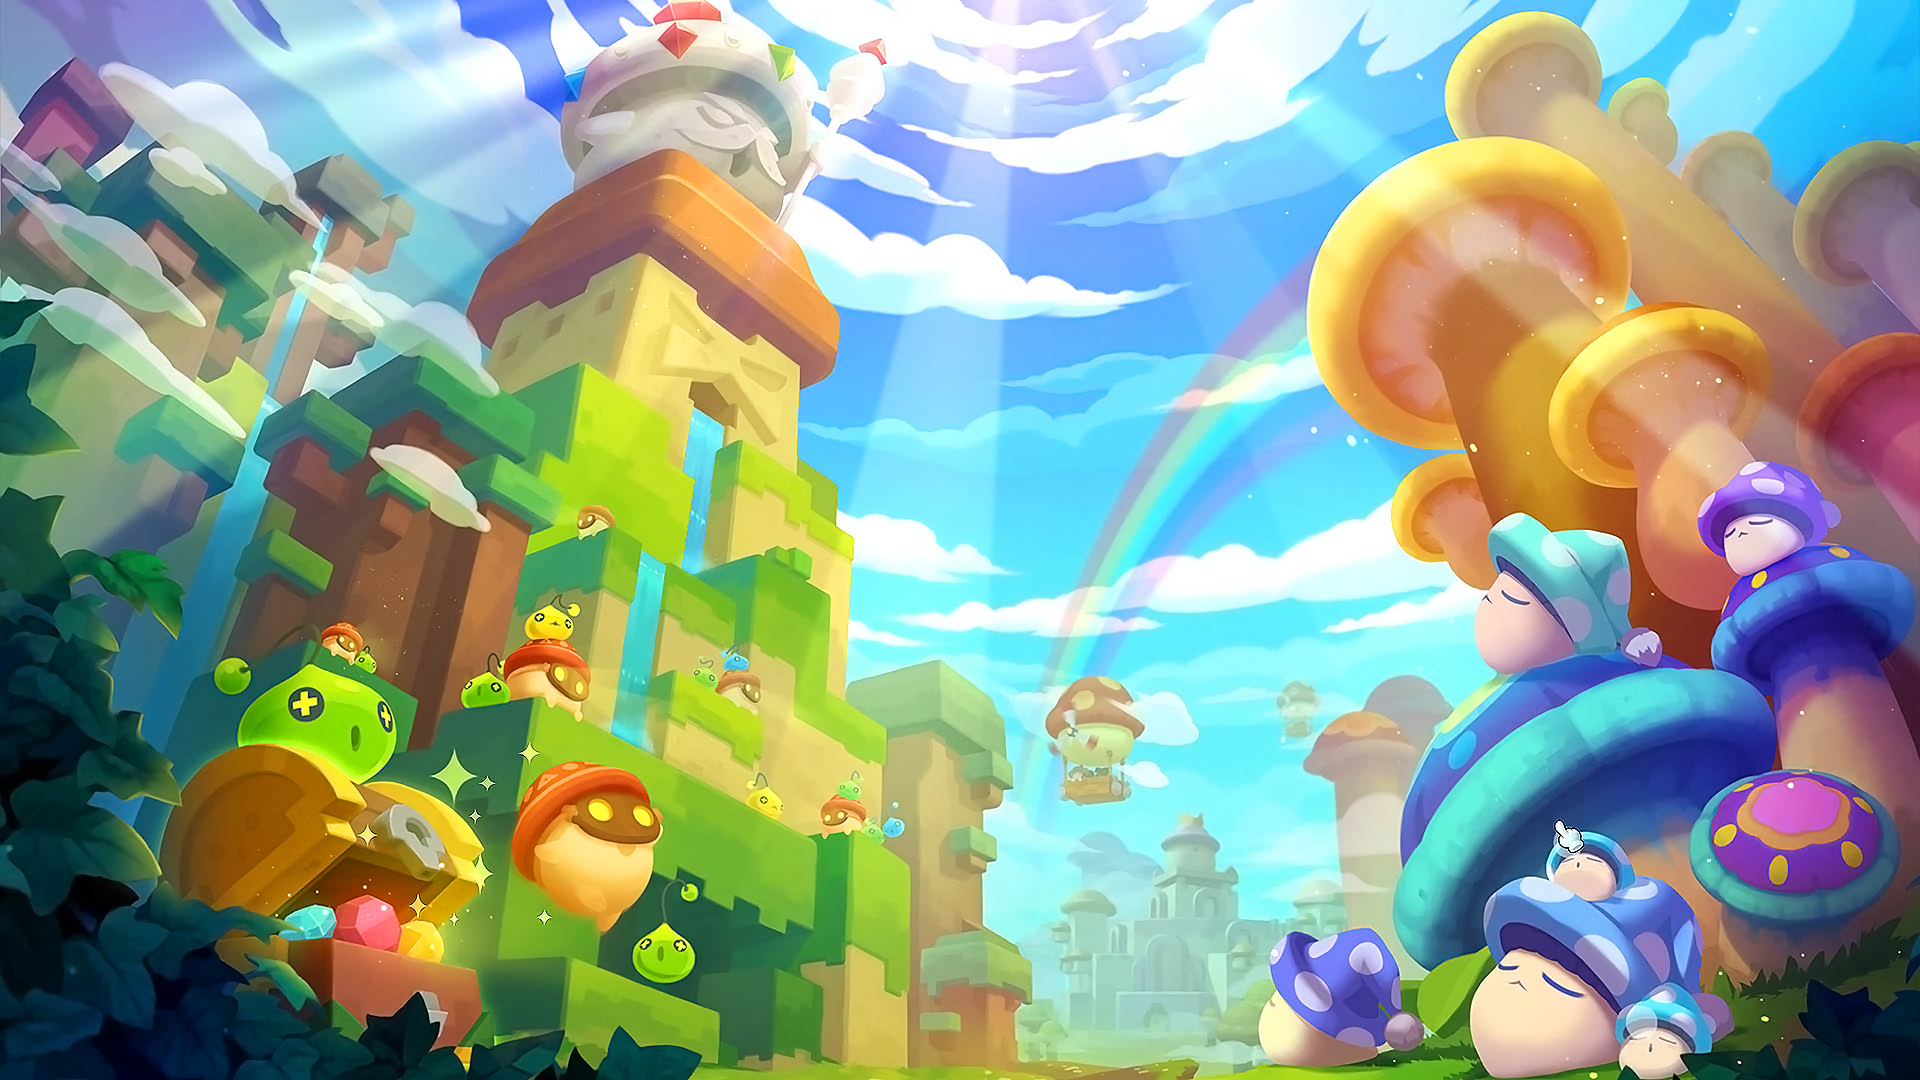
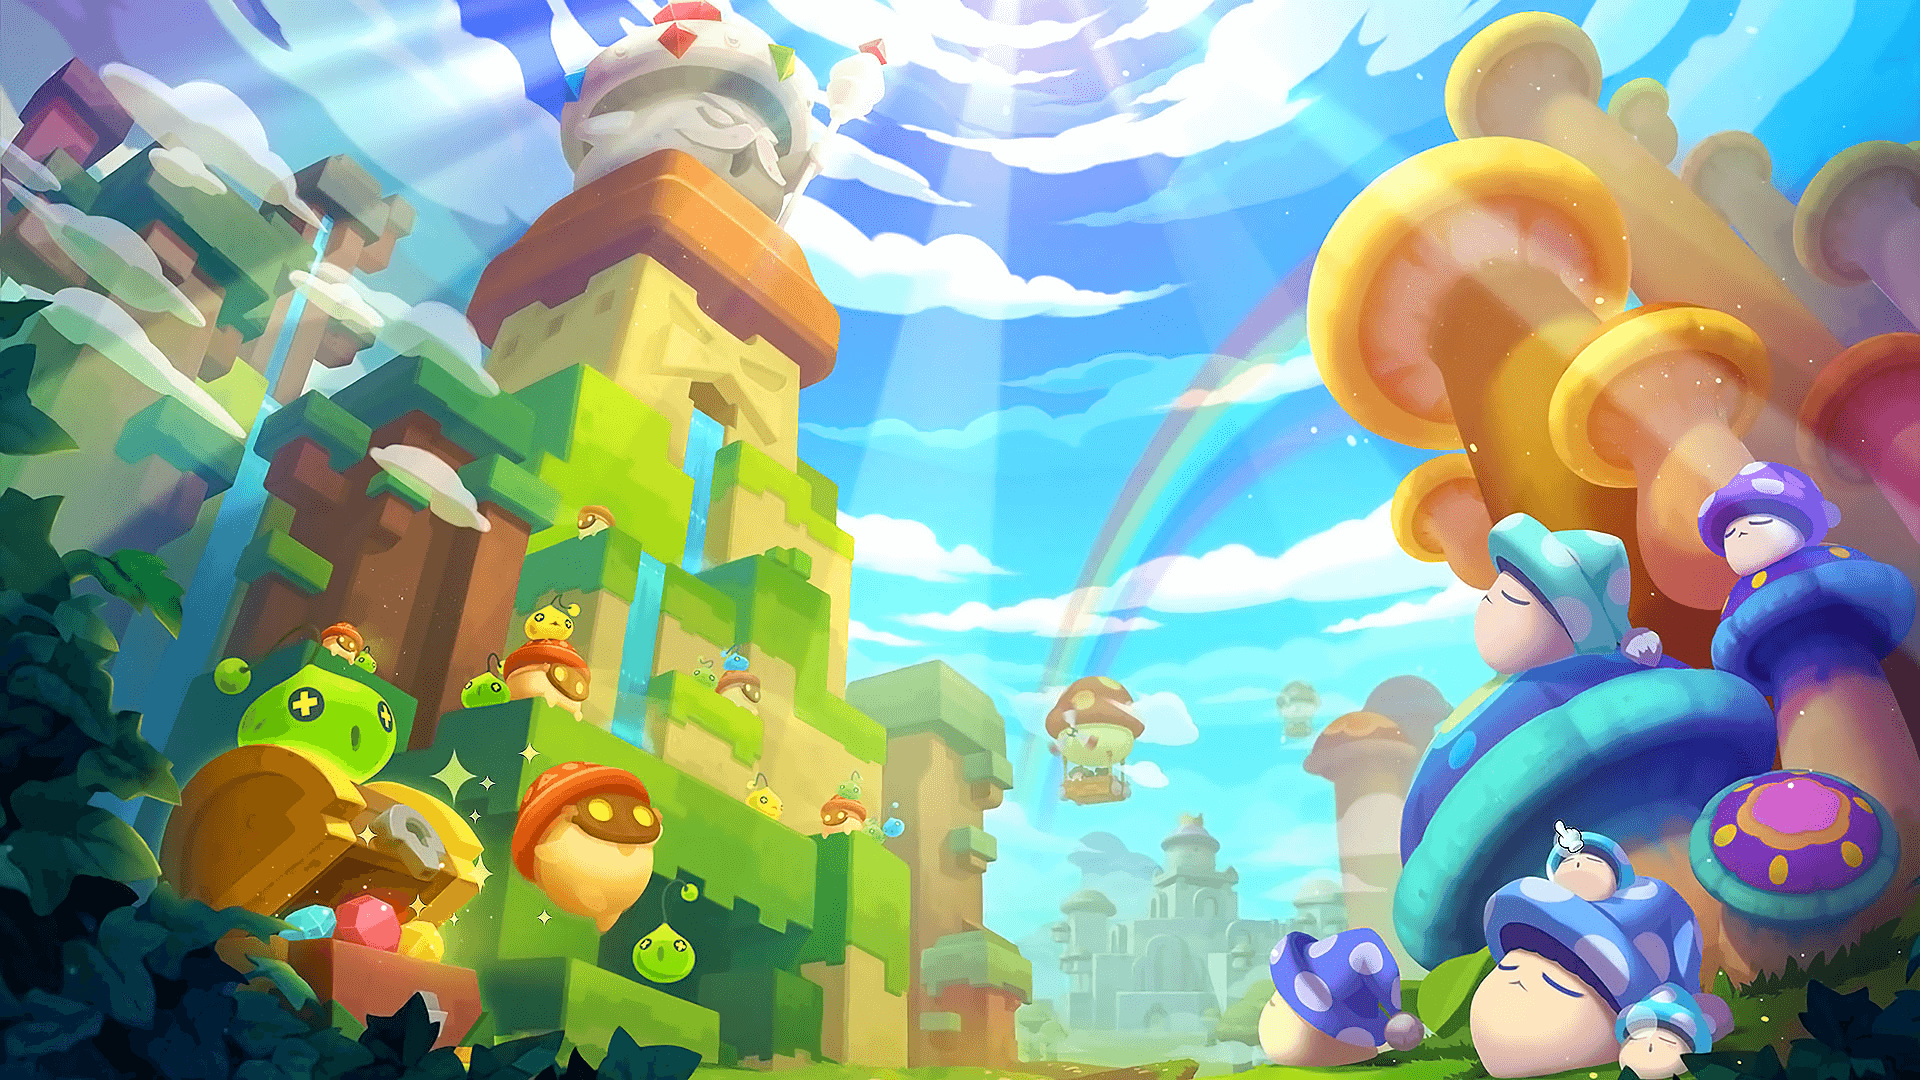
Image sized are cut down 3/4

diff --git a/style.css b/style.css
@@ -90,11 +90,6 @@ h2{
   
 }
 
-#maplelogo:hover{
- 
-}
-
-
       .third_header{
         position: relative;
         text-align: center;
